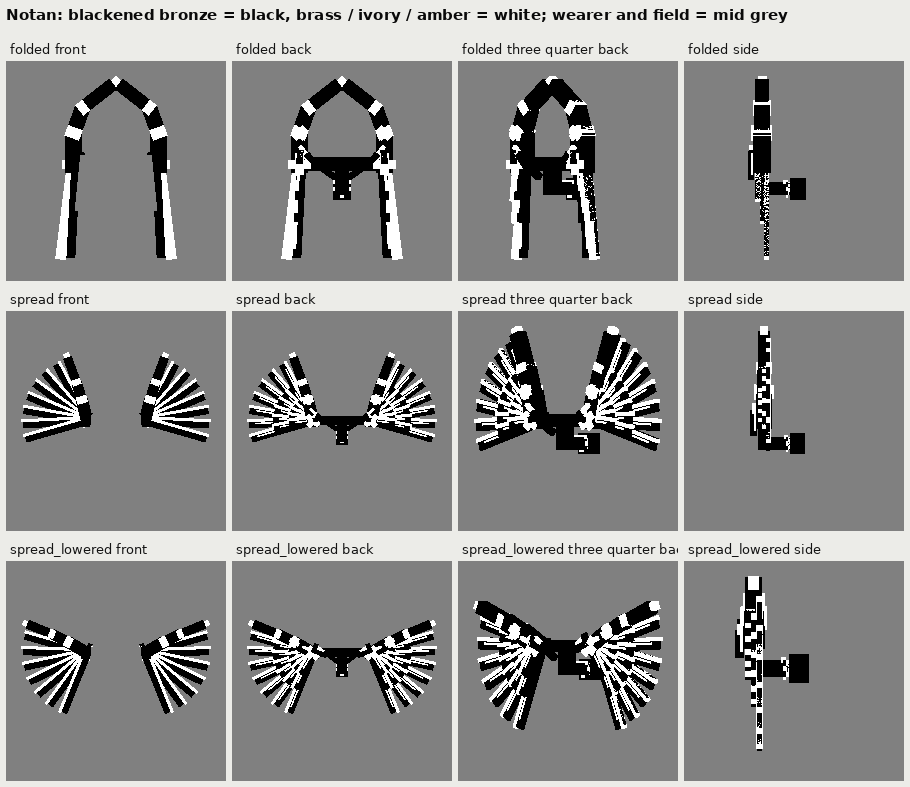
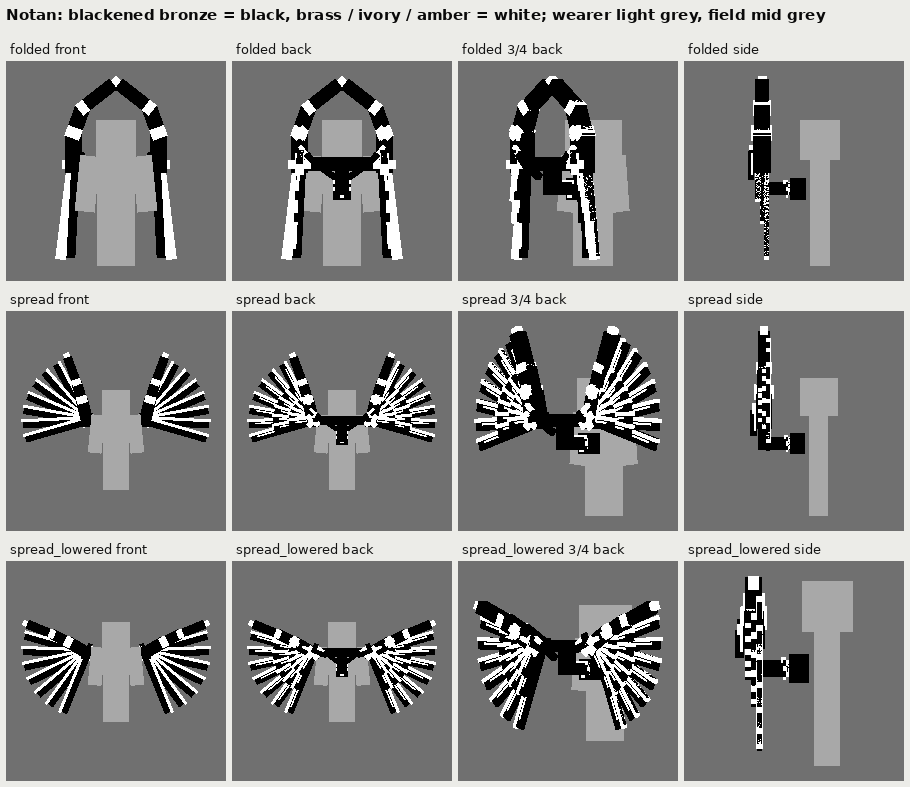
Clockwork Regent: readable notan wearer; rare-pose and slim clip results
The notan sheet drew the wearer in the same grey as the field; it now uses a
lighter grey. Adds the clipping results for the overhead trident throw and
for slim arms without armor: no clips in any wing state.

Claude-Session: https://claude.ai/code/session_01DYf5jMtFSF3X42R4nBtenB

diff --git a/clockwork-regent/tools/make_step1.py b/clockwork-regent/tools/make_step1.py
@@ -34,7 +34,7 @@ FONT_B = ImageFont.truetype("/usr/share/fonts/truetype/dejavu/DejaVuSans-Bold.tt
 
 WHITE, BLACK = (255, 255, 255), (0, 0, 0)
 SIL = {k: BLACK for k in range(7)}
-NOTAN = {scene.SKIN: (128, 128, 128), scene.ARMOR: (128, 128, 128), scene.CAPE: (128, 128, 128),
+NOTAN = {scene.SKIN: (168, 168, 168), scene.ARMOR: (168, 168, 168), scene.CAPE: (168, 168, 168),
          scene.BRONZE: BLACK, scene.BRASS: WHITE, scene.IVORY: WHITE, scene.AMBER: WHITE}
 # Value key: blackened bronze dark, aged brass mid, ivory enamel and amber light.
 VALUE = {scene.SKIN: (92, 92, 92), scene.ARMOR: (92, 92, 92), scene.CAPE: (92, 92, 92),
@@ -177,8 +177,9 @@ def main():
             its = scene.items(STATES[state])
             cam = fit_ortho(v, its, 220)
             ids, _ = render.rasterise(cam, its)
-            panels.append(label(Image.fromarray(render.colourise(ids, NOTAN, (128, 128, 128))), f"{state} {v.replace('_', ' ')}"))
-    grid(panels, 4, title="Notan: blackened bronze = black, brass / ivory / amber = white; wearer and field = mid grey"
+            panels.append(label(Image.fromarray(render.colourise(ids, NOTAN, (112, 112, 112))),
+                                f"{state} {v.replace('three_quarter', '3/4').replace('_', ' ')}"))
+    grid(panels, 4, title="Notan: blackened bronze = black, brass / ivory / amber = white; wearer light grey, field mid grey"
          ).save(os.path.join(OUT, "notan.png"))
 
     # 4. Value key: three values on neutral dark grey, with measured shares of visible area.
